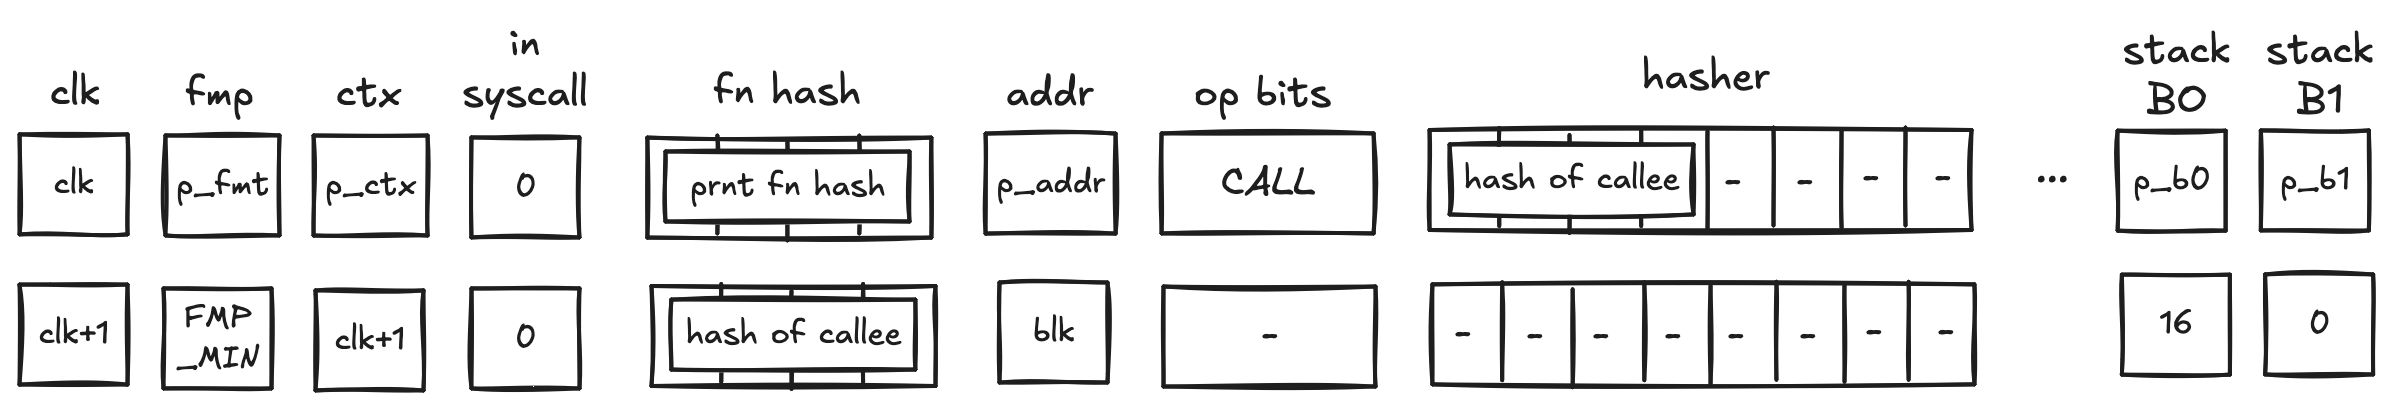
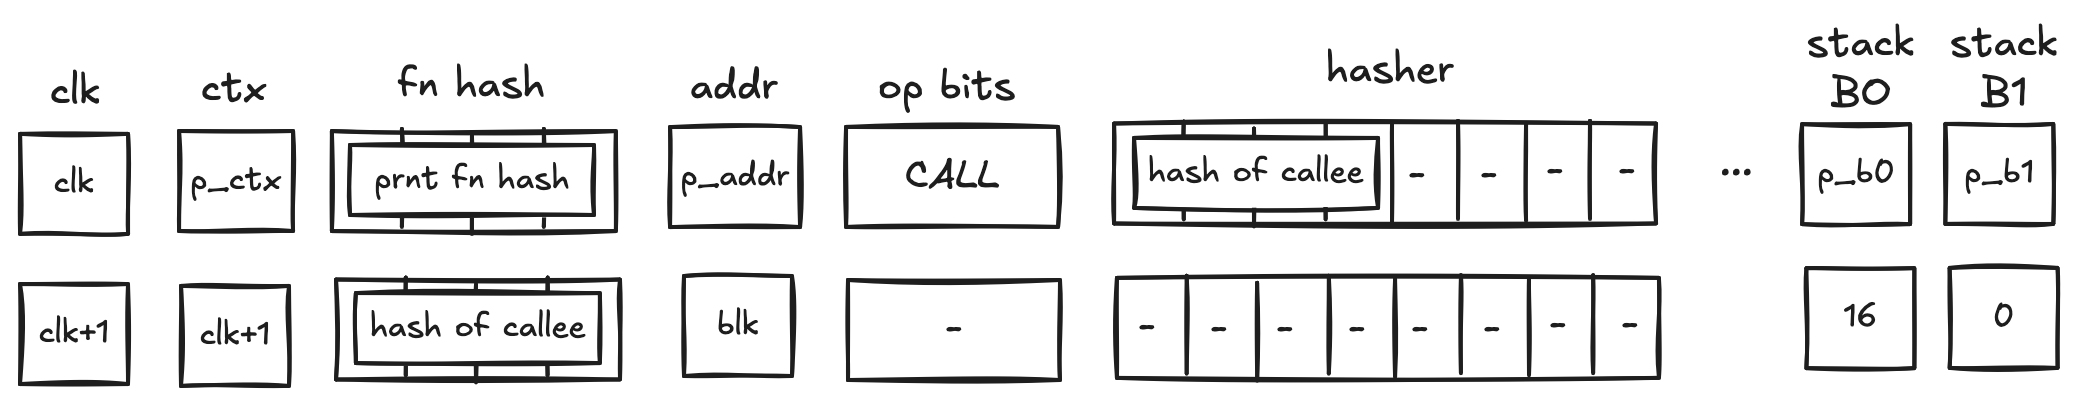
docs: fix docs after removal of fmp and in_syscall

diff --git a/docs/src/design/decoder/index.md b/docs/src/design/decoder/index.md
@@ -354,7 +354,7 @@ When the VM executes a `DYN` operation, it does the following:
 5. Performs a stack left shift
     - Above `s16` was pulled from the stack overflow table if present; otherwise set to `0`.
 
-Note that unlike `DYNCALL`, the `fmp`, `ctx`, `in_syscall` and `fn_hash` registers are unchanged.
+Note that unlike `DYNCALL`, the `ctx` and `fn_hash` registers are unchanged.
 
 #### DYNCALL operation
 
@@ -364,7 +364,7 @@ In the above diagram, `blk` is the ID of the *dyn* block which is about to be ex
 
 When the VM executes a `DYNCALL` operation, it does the following:
 
-1. Adds a tuple `(blk, p_addr, 0, ctx, fmp, b_0, b_1, fn_hash[0..3])` to the block stack table.
+1. Adds a tuple `(blk, p_addr, 0, ctx, b_0, b_1, fn_hash[0..3])` to the block stack table.
 2. Sends a memory read request to the memory chiplet, using `s0` as the memory address. The result `hash of callee` is placed in the decoder hasher trace at $h_0, h_1, h_2, h_3$.
 3. Sends a memory write request to the memory chiplet to set address `FMP_ADDR = 2^32 - 1` to `FMP_INIT_VALUE = 2^31` in the new memory context. This initializes the `fmp` in the new context.
 4. Adds the tuple `(blk, hash of callee, 0, 0)` to the block hash table.
@@ -372,7 +372,7 @@ When the VM executes a `DYNCALL` operation, it does the following:
 6. Performs a stack left shift
     - Above `s16` was pulled from the stack overflow table if present; otherwise set to `0`.
 
-Similar to `CALL`, `DYNCALL` resets the `fmp`, sets up a new `ctx`, and sets the `fn_hash` registers to the callee hash. `in_syscall` needs to be 0, since calls are not allowed during a syscall.
+Similar to `CALL`, `DYNCALL` sets up a new `ctx`, and sets the `fn_hash` registers to the callee hash.
 
 #### END operation
 
@@ -389,7 +389,7 @@ In the above diagram, `blk` is the ID of the block which is about to finish exec
 When the VM executes an `END` operation, it does the following:
 
 1. Removes a tuple from the block stack table.
-    - if `f2` or `f3` is set, we remove a row `(blk, prnt, 0, ctx_next, fmp_next, b0_next, b1_next, fn_hash_next[0..4])`
+    - if `f2` or `f3` is set, we remove a row `(blk, prnt, 0, ctx_next, b0_next, b1_next, fn_hash_next[0..4])`
         - in the above, the `x_next` variables denote the column `x` in the next row
     - else, we remove a row `(blk, prnt, f1, 0, 0, 0, 0, 0)`
 2. Removes a tuple `(prnt, current_block_hash, nxt, f0)` from the block hash table, where $nxt=0$ if the next operation is either `END` or `REPEAT`, and $1$ otherwise.
@@ -454,7 +454,7 @@ Before a `CALL` operation, the prover populates $h_0, ..., h_3$ registers with t
 
 - sets the context ID to the next row's CLK value
 - sets the `fn hash` registers to the hash of the callee
-    - This register is what the `caller` instruction uses to return the hash of the caller in a syscall
+    - This register is what the `caller` instruction uses to return the hash of the caller
 - resets the stack `B0` register to 16 (which tracks the current stack depth)
 - resets the overflow address to 0 (which tracks the "address" of the last element added to the overflow table)
     - it is set to 0 to indicate that the overflow table is empty
@@ -465,7 +465,7 @@ In the above diagram, `blk` is the ID of the *call* block which is about to be e
 
 When the VM executes a `CALL` operation, it does the following:
 
-1. Adds a tuple `(blk, prnt, 0, p_ctx, p_fmp, p_b0, p_b1, prnt_fn_hash[0..4])` to the block stack table.
+1. Adds a tuple `(blk, prnt, 0, p_ctx, p_b0, p_b1, prnt_fn_hash[0..4])` to the block stack table.
 2. Initiates a 2-to-1 hash computation in the hash chiplet (as described [here](#simple-2-to-1-hash)) using `blk` as row address in the auxiliary hashing table and $h_0, ..., h_3$ as input values.
 3. Sends a memory write request to the memory chiplet to set address `FMP_ADDR = 2^32 - 1` to `FMP_INIT_VALUE = 2^31` in the new memory context. This initializes the `fmp` in the new context.
 
@@ -488,7 +488,7 @@ In the above diagram, `blk` is the ID of the *syscall* block which is about to b
 
 When the VM executes a `SYSCALL` operation, it does the following:
 
-1. Adds a tuple `(blk, prnt, 0, p_ctx, p_fmp, p_b0, p_b1, prnt_fn_hash[0..4])` to the block stack table.
+1. Adds a tuple `(blk, prnt, 0, p_ctx, p_b0, p_b1, prnt_fn_hash[0..4])` to the block stack table.
 2. Sends a request to the kernel ROM chiplet indicating that `hash of callee` is being accessed.
     - this results in a fault if `hash of callee` does not correspond to the hash of a kernel procedure
 3. Initiates a 2-to-1 hash computation in the hash chiplet (as described [here](#simple-2-to-1-hash)) using `blk` as row address in the auxiliary hashing table and $h_0, ..., h_3$ as input values.
@@ -723,7 +723,7 @@ When this program is executed on the VM, the following happens:
 2. Then, `JOIN` operation for $b_0$ is executed. It adds hashes of $b_1$ and $b_2$ to the block hash table. It also adds an entry for $b_0$ to the block stack table. States of both tables after this step are illustrated below.
 3. Then, *basic* $b_1$ is executed and a sequential hash of its operations is computed. Also, when `SPAN` operation for $b_1$ is executed, an entry for $b_1$ is added to the block stack table. At the end of $b_1$ (when `END` is executed), entries for $b_1$ are removed from both the block hash and block stack tables.
 4. Then, `SPLIT` operation for $b_2$ is executed. It adds an entry for $b_2$ to the block stack table. Also, depending on whether the top of the stack is $1$ or $0$, either hash of $b_3$ or hash of $b_4$ is added to the block hash table. Let's say the top of the stack is $1$. Then, at this point, the block hash and block stack tables will look like in the second picture below.
-5. Then, *basic* $b_3$ is executed and a sequential hash of its instructions is computed. Also, when `SPAN` operation for $b_3` is executed, an entry for $b_3$ is added to the block stack table. At the end of $b_3` (when `END` is executed), entries for $b_3` are removed from both the block hash and block stack tables.
+5. Then, *basic* $b_3$ is executed and a sequential hash of its instructions is computed. Also, when `SPAN` operation for $b_3$ is executed, an entry for $b_3$ is added to the block stack table. At the end of $b_3$ (when `END` is executed), entries for $b_3$ are removed from both the block hash and block stack tables.
 6. Then, `END` operation for $b_2$ is executed. It removes the hash of $b_2$ from the block hash table, and also removes the entry for $b_2$ from the block stack table. The third picture below illustrates the states of block stack and block hash tables after this step.
 7. Then, `END` for $b_0$ is executed, which removes entries for $b_0$ from the block stack and block hash tables. At this point both tables are empty.
 8. Finally, a sequence of `HALT` operations is executed until the length of the trace reaches a power of two.

diff --git a/docs/src/design/decoder/constraints.md b/docs/src/design/decoder/constraints.md
@@ -240,11 +240,11 @@ The degree of this constraint is $9$.
 As described [previously](./index.md#block-stack-table), block stack table keeps track of program blocks currently executing on the VM. Thus, whenever the VM starts executing a new block, an entry for this block is added to the block stack table. And when execution of a block completes, it is removed from the block stack table.
 
 Adding and removing entries to/from the block stack table is accomplished as follows:
-* To add an entry, we multiply the value in column $p_1$ by a value representing a tuple `(blk, prnt, is_loop, ctx_next, fmp_next, b0_next, b1_next, fn_hash_next)`
+* To add an entry, we multiply the value in column $p_1$ by a value representing a tuple `(blk, prnt, is_loop, ctx_next, b0_next, b1_next, fn_hash_next)`
 . A constraint to enforce this would look as $p_1' = p_1 \cdot v$, where $v$ is the value representing the row to be added.
-* To remove an entry, we divide the value in column $p_1$ by a value representing a tuple `(blk, prnt, is_loop, ctx_next, fmp_next, b0_next, b1_next, fn_hash_next)`. A constraint to enforce this would look as $p_1' \cdot u = p_1$, where $u$ is the value representing the row to be removed.
+* To remove an entry, we divide the value in column $p_1$ by a value representing a tuple `(blk, prnt, is_loop, ctx_next, b0_next, b1_next, fn_hash_next)`. A constraint to enforce this would look as $p_1' \cdot u = p_1$, where $u$ is the value representing the row to be removed.
 
-> Recall that the columns `ctx_next, fmp_next, b0_next, b1_next, fn_hash_next` are only set on `CALL`, `SYSCALL`, and their corresponding `END` block. Therefore, for simplicity, we will ignore them when documenting all other block types (such that their values are set to `0`).
+> Recall that the columns `ctx_next, b0_next, b1_next, fn_hash_next` are only set on `CALL`, `SYSCALL`, and their corresponding `END` block. Therefore, for simplicity, we will ignore them when documenting all other block types (such that their values are set to `0`).
 
 Before describing the constraints for the block stack table, we first describe how we compute the values to be added and removed from the table for each operation. In the below, for block start operations (`JOIN`, `SPLIT`, `LOOP`, `SPAN`) $a$ refers to the ID of the parent block, and $a'$ refers to the ID of the starting block. For `END` operation, the situation is reversed: $a$ is the ID of the ending block, and $a'$ is the ID of the parent block. For `RESPAN` operation, $a$ refers to the ID of the current operation batch, $a'$ refers to the ID of the next batch, and the parent ID for both batches is set by the prover non-deterministically in register $h_1$.
 
@@ -285,30 +285,30 @@ $$
 v_{dyn} = f_{dyn} \cdot (\alpha_0 + \alpha_1 \cdot a' + \alpha_2 \cdot a) \text{ | degree} = 6
 $$
 
-When a `DYNCALL` operation is executed, row $(a', a, 0, ctx, fmp, b_0, b_1, \mathrm{fnhash}[0..3])$ is added to the block stack table:
+When a `DYNCALL` operation is executed, row $(a', a, 0, ctx, b_0, b_1, \mathrm{fnhash}[0..3])$ is added to the block stack table:
 
 $$
 \begin{align*}
 v_{dyncall} &= f_{dyncall} \cdot (\alpha_0 + \alpha_1 \cdot a + \alpha_2 \cdot a' + \alpha_4 \cdot ctx 
-&+ \alpha_5 \cdot fmp + \alpha_6 \cdot b_0 + \alpha_7 \cdot b_1 + <[\alpha_8, \alpha_{11}], \mathrm{fnhash}[0..3]>) \text{ | degree} = 6
+&+ \alpha_5 \cdot b_0 + \alpha_6 \cdot b_1 + <[\alpha_7, \alpha_{10}], \mathrm{fnhash}[0..3]>) \text{ | degree} = 6
 \end{align*}
 $$
 
-When a `CALL` or `SYSCALL` operation is executed, row $(a', a, 0, ctx, fmp, b_0, b_1, \mathrm{fnhash}[0..3])$ is added to the block stack table:
+When a `CALL` or `SYSCALL` operation is executed, row $(a', a, 0, ctx, b_0, b_1, \mathrm{fnhash}[0..3])$ is added to the block stack table:
 
 $$
 \begin{align*}
 v_{callorsyscall} &= (f_{call} + f_{syscall}) \cdot (\alpha_0 + \alpha_1 \cdot a + \alpha_2 \cdot a' + \alpha_4 \cdot ctx 
-&+ \alpha_5 \cdot fmp + \alpha_6 \cdot b_0 + \alpha_7 \cdot b_1 + <[\alpha_8, \alpha_{11}], \mathrm{fnhash}[0..3]>) \text{ | degree} = 5
+&+ \alpha_5 \cdot b_0 + \alpha_6 \cdot b_1 + <[\alpha_7, \alpha_{10}], \mathrm{fnhash}[0..3]>) \text{ | degree} = 5
 \end{align*}
 $$
 
-When `END` operation is executed, how we construct the row will depend on whether the `IS_CALL` or `IS_SYSCALL` values are set (stored in registers $h_6$ and $h_7$ respectively). If they are not set, then row $(a, a', h_5)$ is removed from the block span table (where $h_5$ contains the `is_loop` flag); otherwise, row $(a ,a', 0, ctx', fmp', b_0', b_1', \mathrm{fnhash}'[0..3])$.
+When `END` operation is executed, how we construct the row will depend on whether the `IS_CALL` or `IS_SYSCALL` values are set (stored in registers $h_6$ and $h_7$ respectively). If they are not set, then row $(a, a', h_5)$ is removed from the block span table (where $h_5$ contains the `is_loop` flag); otherwise, row $(a ,a', 0, ctx', b_0', b_1', \mathrm{fnhash}'[0..3])$.
 
 $$
 \begin{align*}
 u_{endnocall} &=\alpha_0 + \alpha_1 \cdot a + \alpha_2 \cdot a' 
-u_{endcall} &= u_{endnocall} + \alpha_4 \cdot ctx' + \alpha_5 \cdot fmp' + \alpha_6 \cdot b_0' + \alpha_7 \cdot b_1' + <[\alpha_8, \alpha_{11}], \mathrm{fnhash}'[0..3]>
+u_{endcall} &= u_{endnocall} + \alpha_4 \cdot ctx' + \alpha_5 \cdot b_0' + \alpha_6 \cdot b_1' + <[\alpha_7, \alpha_{10}], \mathrm{fnhash}'[0..3]>
 u_{end} &= f_{end} \cdot ((1 - h_6 - h_7) \cdot u_{endnocall} + (h_6 + h_7) \cdot u_{endcall} ) \text{ | degree} = 6
 \end{align*}
 $$

diff --git a/docs/src/user_docs/assembly/io_operations.md b/docs/src/user_docs/assembly/io_operations.md
@@ -34,7 +34,7 @@ In both case the values must still encode valid field elements.
 | ------------------------------------ | ------------ | ------------ | --------------------------------------------------------------------------------------------------------------------------------------------------------------------------------------------------------------------- |
 | clk <br /> - _(1 cycle)_             | [ ... ]      | [t, ... ]    | $t \leftarrow clock\_value()$ <br /> Pushes the current value of the clock cycle counter onto the stack.                                                                                                              |
 | sdepth <br /> - _(1 cycle)_          | [ ... ]      | [d, ... ]    | $d \leftarrow stack.depth()$ <br /> Pushes the current depth of the stack onto the stack.                                                                                                                             |
-| caller <br /> - _(1 cycle)_          | [A, b, ... ] | [H, b, ... ] | $H \leftarrow context.fn\_hash()$ <br /> Overwrites the top four stack items with the hash of a function which initiated the current SYSCALL. <br /> Executing this instruction outside of SYSCALL context will fail. |
+| caller <br /> - _(1 cycle)_          | [A, b, ... ] | [H, b, ... ] | $H \leftarrow context.fn\_hash()$ <br /> Overwrites top 4 stack items with hash `H` of the function that called into the current context, or initiated the current `SYSCALL`. Returns `[0, 0, 0, 0]` when in context 0 and not servicing a `SYSCALL`. |
 | locaddr._i_ <br /> - _(2 cycles)_    | [ ... ]      | [a, ... ]    | $a \leftarrow address\_of(i)$ <br /> Pushes the absolute memory address of local memory at index $i$ onto the stack.                                                                                                  |
 | procref._name_ <br /> - _(4 cycles)_ | [ ... ]      | [A, ... ]    | $A \leftarrow mast\_root()$ <br /> Pushes MAST root of the procedure with name $name$ onto the stack.                                                                                                                 |
 

diff --git a/docs/src/design/stack/op_constraints.md b/docs/src/design/stack/op_constraints.md
@@ -78,7 +78,7 @@ This group contains $32$ operations which do not shift the stack (this is almost
 | `INV`     |     $3$      |   `000_0011`    |  [Field ops](./field_ops.md)  |     $7$     |
 | `INCR`    |     $4$      |   `000_0100`    |  [Field ops](./field_ops.md)  |     $7$     |
 | `NOT`     |     $5$      |   `000_0101`    |  [Field ops](./field_ops.md)  |     $7$     |
-| `FMPADD`  |     $6$      |   `000_0110`    | [System ops](./system_ops.md) |     $7$     |
+| `<unused>`|     $6$      |   `000_0110`    |                               |     $7$     |
 | `MLOAD`   |     $7$      |   `000_0111`    |    [I/O ops](./io_ops.md)     |     $7$     |
 | `SWAP`    |     $8$      |   `000_1000`    |  [Stack ops](./stack_ops.md)  |     $7$     |
 | `CALLER`  |     $9$      |   `000_1001`    | [System ops](./system_ops.md) |     $7$     |
@@ -125,7 +125,7 @@ This group contains $16$ operations which shift the stack to the left (i.e., rem
 | `MLOADW`    |     $44$     |   `010_1100`    |    [I/O ops](./io_ops.md)     |     $7$     |
 | `MSTORE`    |     $45$     |   `010_1101`    |    [I/O ops](./io_ops.md)     |     $7$     |
 | `MSTOREW`   |     $46$     |   `010_1110`    |    [I/O ops](./io_ops.md)     |     $7$     |
-| `FMPUPDATE` |     $47$     |   `010_1111`    | [System ops](./system_ops.md) |     $7$     |
+| `<unused>`  |     $47$     |   `010_1111`    |                               |     $7$     |
 
 ### Right stack shift operations
 This group contains $16$ operations which shift the stack to the right (i.e., push a new item onto the stack). Most of right-shift operations are contained in this group. Since the op flag degree for these operations is $7$, constraints for these operations cannot exceed degree $2$.

diff --git a/docs/src/user_docs/assembly/instruction_reference.md b/docs/src/user_docs/assembly/instruction_reference.md
@@ -173,7 +173,7 @@ Instructions for moving data between the stack and other sources like program co
 | -------------- | ------------ | ------------ | ------ | --------------------------------------------------------------------------------------------------------------------------- |
 | `clk`          | `[ ... ]`    | `[t, ... ]`  | 1      | Pushes current clock cycle `t`.                                                                                             |
 | `sdepth`       | `[ ... ]`    | `[d, ... ]`  | 1      | Pushes current stack depth `d`.                                                                                             |
-| `caller`       | `[A, b,...]` | `[H, b,...]` | 1      | Overwrites top 4 stack items with hash `H` of the function that initiated the current `SYSCALL`. Fails if not in `SYSCALL`. |
+| `caller`       | `[A, b,...]` | `[H, b,...]` | 1      | Overwrites top 4 stack items with hash `H` of the function that called into the current context, or initiated the current `SYSCALL`. Returns `[0, 0, 0, 0]` when in context 0 and not servicing a `SYSCALL`. |
 | `locaddr.i`    | `[ ... ]`    | `[a, ... ]`  | 2      | Pushes absolute memory address `a` of local memory at index `i`.                                                            |
 | `procref.name` | `[ ... ]`    | `[A, ... ]`  | 4      | Pushes MAST root `A` of procedure `name`.                                                                                   |
 

diff --git a/docs/src/design/index.md b/docs/src/design/index.md
@@ -45,12 +45,11 @@ The execution trace of Miden VM consists of $73$ main trace columns, $2$ buses, 
 
 As can be seen from the above, the system, decoder, stack, and range checker components use dedicated sets of columns, while all chiplets share the same $18$ columns. To differentiate between chiplets, we use a set of binary selector columns, a combination of which uniquely identifies each chiplet.
 
-The system component does not yet have a dedicated documentation section, since the design is likely to change. However, the following two columns are not expected to change:
+The system component does not yet have a dedicated documentation section, since the design is likely to change. However, the following column is not expected to change:
 
 * `clk` which is used to keep track of the current VM cycle. Values in this column start out at $0$ and are incremented by $1$ with each cycle.
-* `fmp` which contains the value of the free memory pointer used for specifying the region of memory available to procedure locals.
 
-AIR constraints for the `fmp` column are described in [system operations](./stack/system_ops.md) section. For the `clk` column, the constraints are straightforward:
+For the `clk` column, the constraints are straightforward:
 
 $$
 clk' - (clk + 1) = 0 \text{ | degree} = 1

diff --git a/docs/src/user_docs/assembly/execution_contexts.md b/docs/src/user_docs/assembly/execution_contexts.md
@@ -47,7 +47,7 @@ In Miden Assembly, it is used to execute procedures without switching execution 
 
 A _kernel_ defines a set of procedures which can be invoked from user contexts to be executed in the root context. Miden assembly programs are always compiled against some kernel. The default kernel is empty - i.e., it does not contain any procedures. To compile a program against a non-empty kernel, the kernel needs to be specified when instantiating the [Miden Assembler](https://crates.io/crates/miden-assembly).
 
-A kernel can be defined similarly to a regular [library module](./code_organization.md#library-modules) - i.e., it can have internal and exported procedures. However, there are some small differences between what procedures can do in a kernel module vs. what they can do in a regular library module. Specifically, unlike procedures in regular library modules, procedures in a kernel module can use the `caller` instruction. This instruction puts the hash of the procedure which initiated the parent context onto the stack.
+A kernel can be defined similarly to a regular [library module](./code_organization.md#library-modules) - i.e., it can have internal and exported procedures.
 
 ### Memory layout
 

diff --git a/docs/src/design/stack/system_ops.md b/docs/src/design/stack/system_ops.md
@@ -34,34 +34,6 @@ $$
 The effect on the rest of the stack is:
 * **Left shift** starting from position $1$.
 
-## FMPADD
-The `FMPADD` operation pops an element off the stack, adds the current value of the `fmp` register to it, and pushes the result back onto the stack. The diagram below illustrates this graphically.
-
-![fmpadd](../../img/design/stack/system_ops/FMPADD.png)
-
-Stack transition for this operation must satisfy the following constraints:
-
-$$
-s_0' - (s_0 + fmp) = 0 \text{ | degree} = 1
-$$
-
-The effect on the rest of the stack is:
-* **No change** starting from position $1$.
-
-## FMPUPDATE
-The `FMPUPDATE` operation pops an element off the stack and adds it to the current value of the `fmp` register. The diagram below illustrates this graphically.
-
-![fmpupdate](../../img/design/stack/system_ops/FMPUPDATE.png)
-
-The stack transition for this operation must follow the following constraint:
-
-$$
-fmp' - (fmp + s_0) = 0 \text{ | degree} = 1
-$$
-
-The effect on the rest of the stack is:
-* **Left shift** starting from position $1$.
-
 ## CLK
 The `CLK` operation pushes the current value of the clock cycle onto the stack. The diagram below illustrates this graphically.
 
